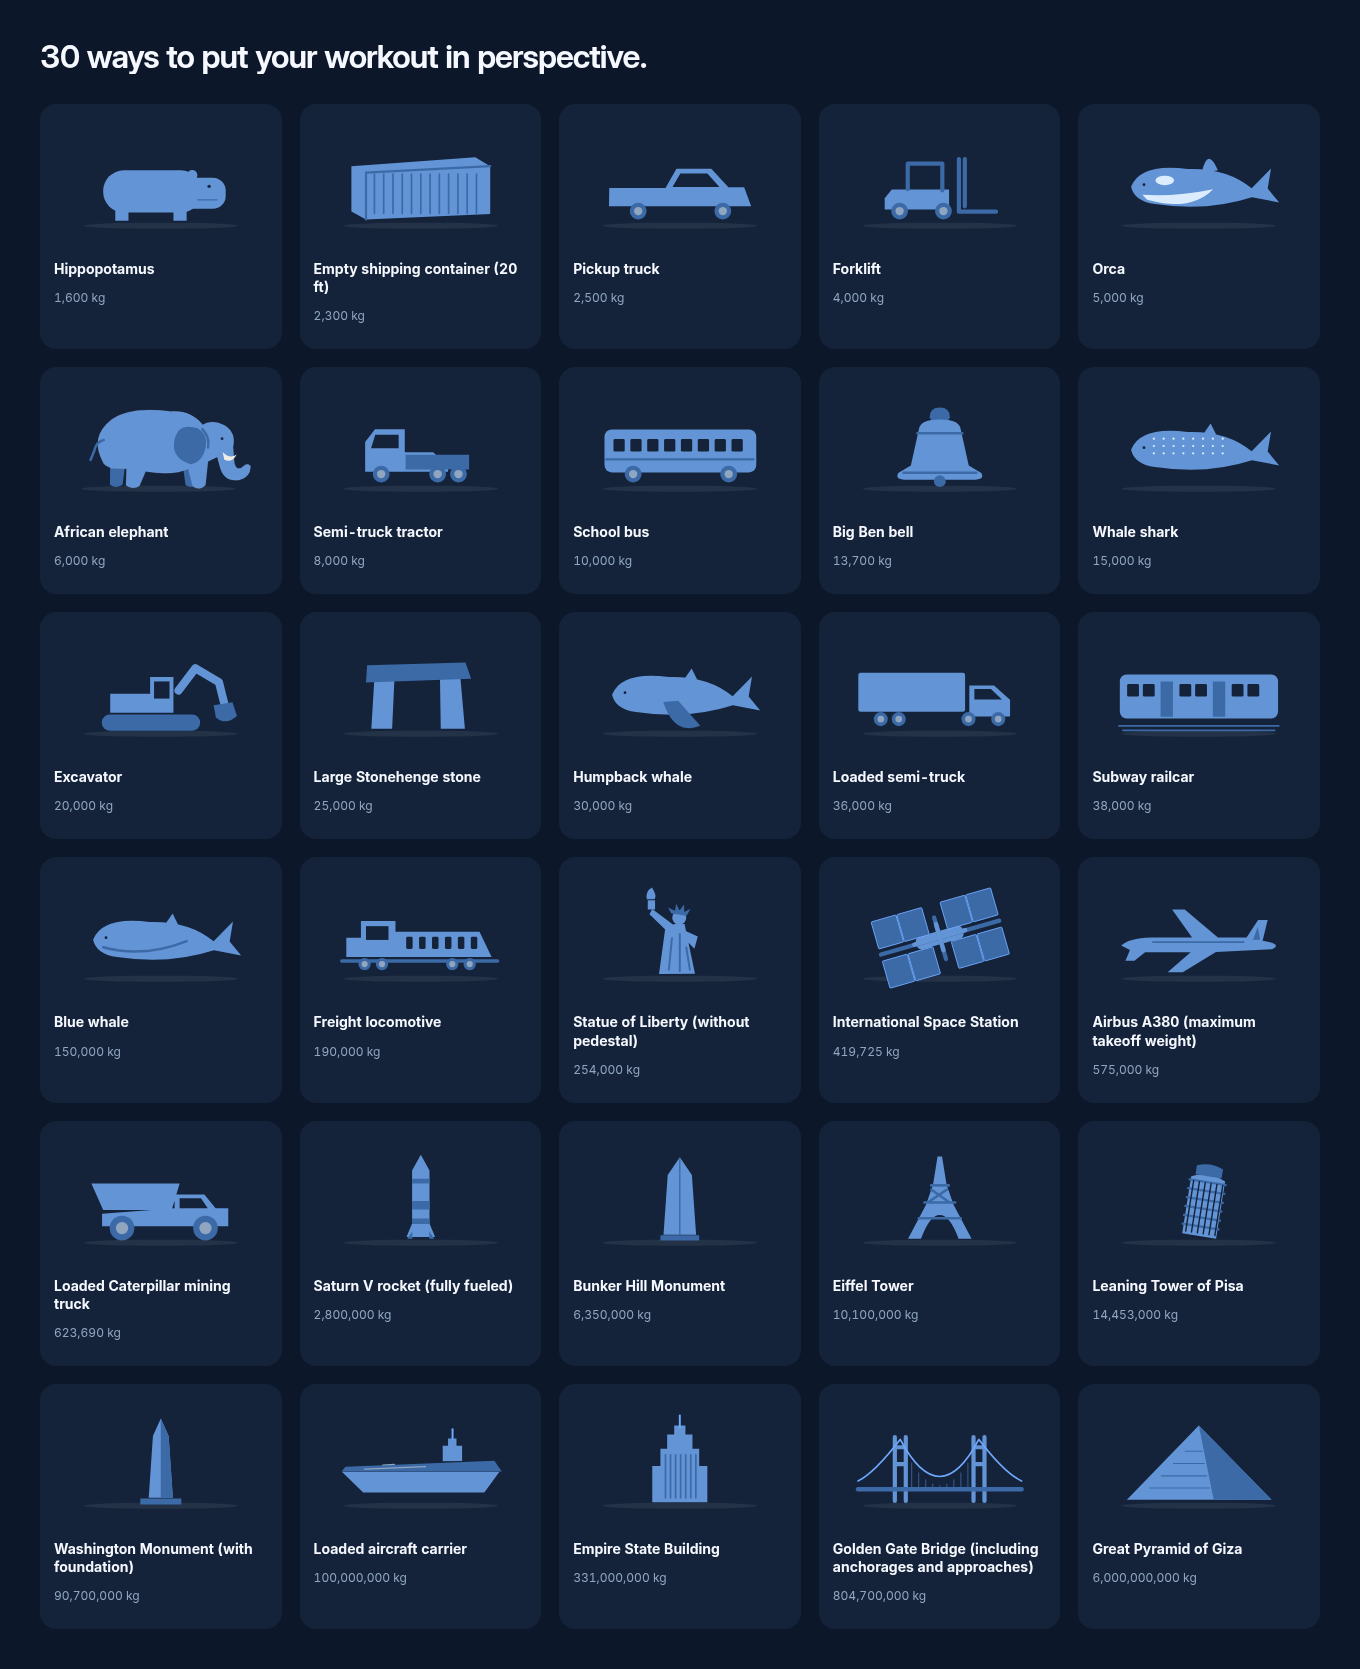
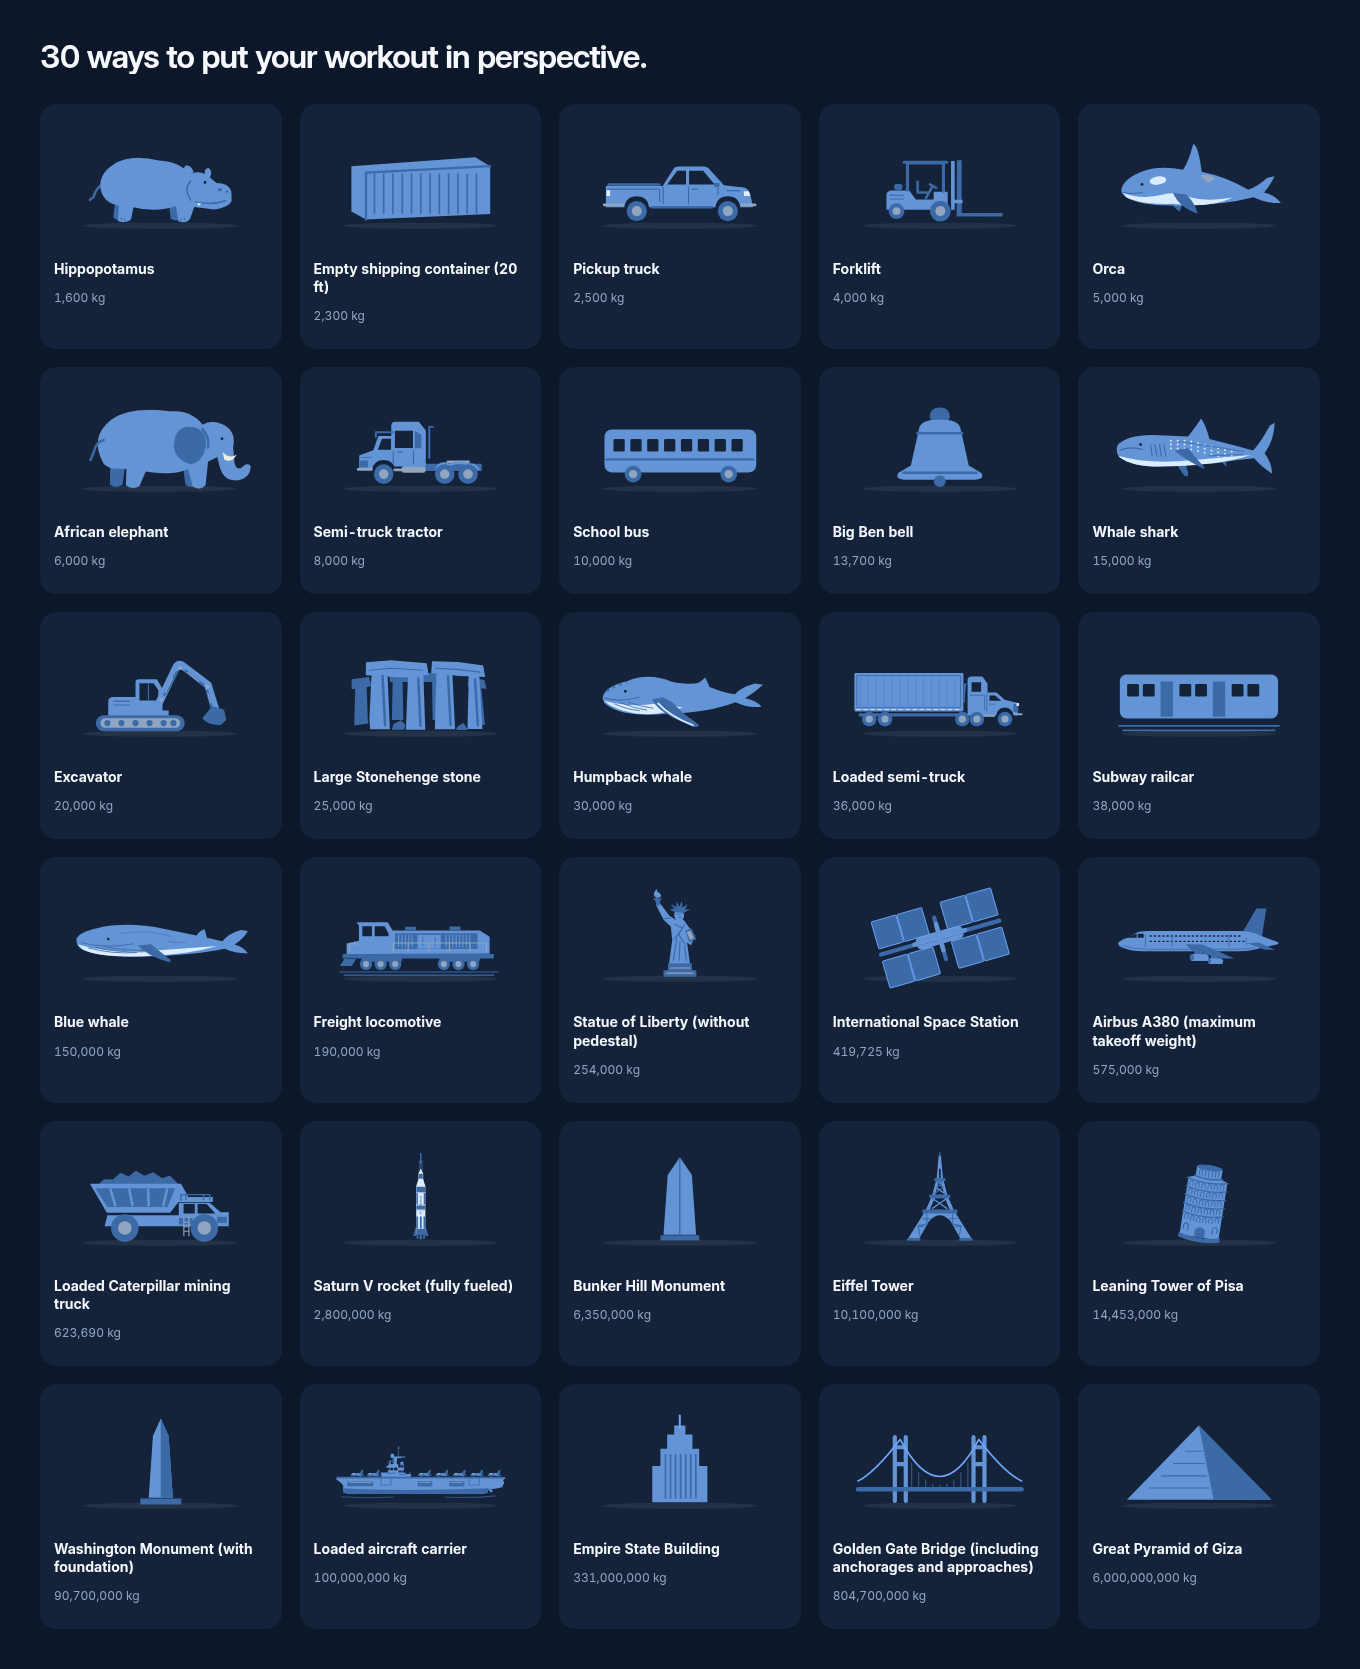
Prepare v0.2.1 artwork refinement release

diff --git a/src/wger_strava/__init__.py b/src/wger_strava/__init__.py
@@ -1,1 +1,1 @@
-__version__ = "0.2.0"
+__version__ = "0.2.1"

diff --git a/README.md b/README.md
@@ -1,8 +1,8 @@
-# wger → Strava connector
+# wger â†’ Strava connector
 
 Export completed **wger strength workouts** to Strava, including individual exercises, sets, repetitions, weights, and timed sets. A separate Docker service reads your wger API and uploads a structured `WeightTraining` activity to Strava. It does not modify wger.
 
-Version 0.2.0 adds experimental [workout cards and headless-browser login tools](design/README.md): dark muscle-summary cards, 30 illustrated weight comparisons, and saved browser login. A live test attached both sample cards to a consenting account's private activity. Automatic image generation/attachment during production workout sync remains pending.
+Version 0.2.0 adds experimental [workout cards and headless-browser login tools](design/README.md): dark muscle-summary cards, 30 illustrated weight comparisons, and saved browser login. Version 0.2.1 refines 19 comparison illustrations, including distinct animal profiles, detailed vehicles, landmarks, a side-view airliner, and a carrier with parked aircraft. A live test attached both sample cards to a consenting account's private activity. Automatic image generation/attachment during production workout sync remains pending.
 
 Uses Strava's documented [strength JSON upload format](https://developers.strava.com/docs/uploads/#json---strength-training-limited), rather than putting the exercises only in an activity description. Exercise names map to Strava's supported identifiers so Strava can display the workout log and muscle map. Strava may group variants under a more general exercise.
 
@@ -15,7 +15,7 @@ Create an empty directory and put these two files in it:
 - `docker-compose.yml`
 - `.env`: copy `.env.example` from this repository, or rename the release download `env.example` to `.env`.
 
-No source checkout, Python installation, or local image build is needed. Download the files from [release v0.2.0](https://github.com/willtheorangeguy/wger-strava-connector/releases/tag/v0.2.0). The Compose file pulls `ghcr.io/willtheorangeguy/wger-strava-connector:0.2.0`. Each release includes all four standalone/existing-wger setup files as downloads after its container publishing workflow completes.
+No source checkout, Python installation, or local image build is needed. Download the files from [release v0.2.1](https://github.com/willtheorangeguy/wger-strava-connector/releases/tag/v0.2.1). The Compose file pulls `ghcr.io/willtheorangeguy/wger-strava-connector:0.2.1`. Each release includes all four standalone/existing-wger setup files as downloads after its container publishing workflow completes.
 
 Fill in `.env`:
 
@@ -100,7 +100,7 @@ docker compose -f docker-compose.media.yml run --rm preview
 docker compose -f docker-compose.media.yml run --rm --service-ports media-login
 ```
 
-These commands pull `ghcr.io/willtheorangeguy/wger-strava-connector:0.2.0-media`. The first writes sample cards and the comparison catalog to `previews/`. The second opens a browser through `http://localhost:6080/vnc.html`; use its printed temporary viewer password, sign into Strava manually, and stop with Ctrl+C to save the session. No API credentials are needed for these two tools. For a remote Docker host, use the SSH tunnel in the [browser instructions](design/README.md).
+These commands pull `ghcr.io/willtheorangeguy/wger-strava-connector:0.2.1-media`. The first writes sample cards and the comparison catalog to `previews/`. The second opens a browser through `http://localhost:6080/vnc.html`; use its printed temporary viewer password, sign into Strava manually, and stop with Ctrl+C to save the session. No API credentials are needed for these two tools. For a remote Docker host, use the SSH tunnel in the [browser instructions](design/README.md).
 
 The `-media` image is separate from the regular connector image. It contains Chromium and the image renderer. It currently renders synthetic sample data and provides browser login; it does not automatically attach images to future wger exports. Browser photo upload has been proven in a private operator-run test, documented in [live validation](design/LIVE-VALIDATION.md). No public live-upload CLI is included in this release.
 

diff --git a/CHANGELOG.md b/CHANGELOG.md
@@ -1,6 +1,14 @@
 # Changelog
 
-## 0.2.0 — 2026-10-20
+## 0.2.1 — 2026-10-21
+
+- Replace 19 weight comparison illustrations with more recognizable animal profiles, vehicles, machinery, landmarks, and Saturn V details while retaining the shared palette and canvas.
+- Correct pickup windows, remove the forklift load, contain whale shark spots within the body, and level the excavator base with a reversed, smooth bucket.
+- Add a side-view airliner and a carrier silhouette with parked aircraft, bridge windows, and hull details.
+- Credit the carrier silhouette by TheFrenchKing under CC BY-SA 4.0, with source and adaptation details bundled in the media assets.
+- Refresh the illustrated catalog preview and advance the connector and experimental-media setup defaults to 0.2.1.
+
+## 0.2.0 â€” 2026-10-20
 
 - Add experimental dark workout-summary cards with enlarged front/back muscle diagrams and 30 original illustrated weight comparisons.
 - Add deterministic, offline Chromium rendering with a bundled font, consistent kg/lb comparison selection, and zero-load handling.
@@ -10,7 +18,7 @@
 - Gate release publishing on connector and media tests; attach version-matched setup files and card previews.
 - Automatic image generation/attachment for completed wger exports is not included yet. The existing API export flow remains independent of the media prototype.
 
-## 0.1.0 — 2026-10-20
+## 0.1.0 â€” 2026-10-20
 
 - Export completed wger sessions as Strava strength JSON, with mapped exercises, actual repetitions/load, and timed sets.
 - Docker deployment and an overlay for an existing wger Compose stack.
